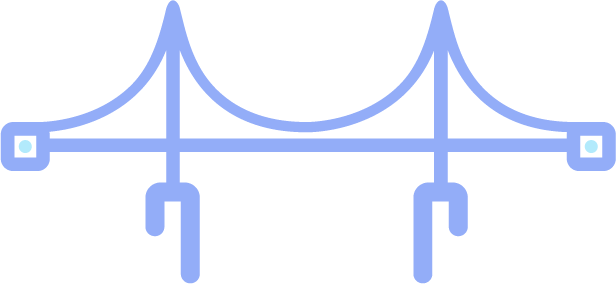
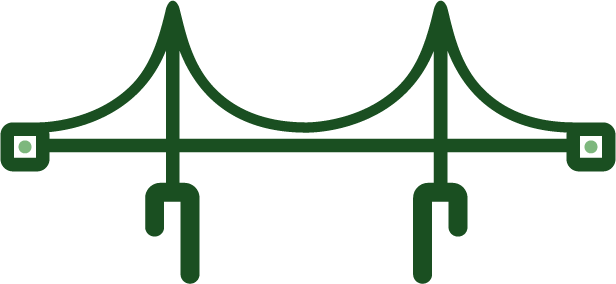
css changes

Changed region(s): [[0.0, 0.0, 1.0, 1.0]]

diff --git a/client/src/index.css b/client/src/index.css
@@ -1,32 +1,34 @@
-@import url('https://fonts.googleapis.com/css2?family=Magra:wght@400;700&display=swap');
+@import url('https://fonts.googleapis.com/css2?family=Roboto:wght@400;700&display=swap');
 
 :root {
 
   background: #F0EEFF;
 
   /* MOCKUP COLORS */
-  --purple-900: #655DFF;
-  --purple-700: #a6a6ff;
-  --purple-600: #B5B5FF;
-  --purple-400: #D1D1FF;
+  --green-900: #1B312F;
+  --green-700: #1A4F21;
+  --green-600: #2D7C2D;
+  --green-400: #7DB77D;
 
-  --blue-purple-800: #677DFF;
-  --blue-purple-600: #86ACFF;
-
+  --green-800: #3E6F4E;
+  --green-600: #79A384;
+  
+  --blue-600: #6577DC;
   --blue-900-6: rgba(76, 124, 255, 0.6);
   --blue-900-3: rgba(76, 124, 255, 0.3);
 
-  --blue-800: #276eab;
-  --blue-600: #A0D3FF;
-  --blue-400: #9AECFF;
-  --blue-200: #BCD4FF;
-  --blue-100: #d1e8fc;
+  --green-800: #3E6F4E;
+  --green-600: #79A384;
+  --green-grey-400: #BDD7D1;
+  --green-200: #E4FDEB;
+  --green-100: #C9E6FF;
 
   --pinkish-700-3: rgba(186, 100, 194, 0.3);
   --pinkish-500-5: rgba(205, 160, 208, 0.5);
 
   --redish-600: #FC7779;
   --redish-400: #ffa5a7;
+  --accent-orange: #E59924;
 
   --whiteish-300: #FDFDFD;
 
@@ -41,7 +43,7 @@
 
 /* ---------------GENERAL--------------- */
 body {
-  font-family: 'Magra', sans-serif;
+  font-family: 'Roboto', sans-serif;
   margin: 0;
 }
 
@@ -70,17 +72,17 @@ p {
 }
 
 .formbridge {
-  color: var(--purple-900);
+  color: var(--green-900);
 }
 .formbridge:hover {
-  color: var(--blue-purple-600);
+  color: var(--green-600);
   cursor: pointer;
 }
 
 .footer-text {
   text-align: center;
   margin-top: 10px;
-  font-family: 'Magra', sans-serif;
+  font-family: 'Roboto', sans-serif;
   color: var(--text-color);
 }
 
@@ -92,13 +94,13 @@ p {
     "start-nav"
     "hero";
   grid-template-rows: auto auto;
-  border-radius: 20px;
+  border-radius: 30px;
   border-top-left-radius: 50px;
   border-top-right-radius: 50px;
   width: 80vw;
   max-width: 1200px;
   height: auto;
-  background-color: var(--blue-100);
+  background-color: var(--green-100);
   box-shadow: 0px 3px 4px rgba(0, 0, 0, 0.122);
 
   z-index: 1;
@@ -109,7 +111,7 @@ p {
   display: flex;
   justify-content: space-between;
   align-items: center;
-  background-color: var(--blue-purple-800);
+  background-color: var(--green-900);
   color: var(--whiteish-300);
   padding: 20px 30px;
   height: fit-content;
@@ -162,7 +164,7 @@ p {
 .sign-in-btn:hover {
   transition: 0.3s;
   background-color: var(--whiteish-300);
-  color: var(--blue-purple-800);
+  color: var(--green-800);
 }
 
 .hero-container {
@@ -208,7 +210,7 @@ p {
 
 .hero-title {
   font-size: 48px;
-  color: var(--blue-purple-800);
+  color: var(--green-800);
   margin-bottom: 10px;
   line-height: 1.2;
 
@@ -228,7 +230,7 @@ p {
 .cta-button {
   display: inline-flex;
   align-items: center;
-  background-color: var(--redish-600);
+  background-color: var(--blue-600);
   color: white;
   border: none;
   padding: 12px 25px;
@@ -245,8 +247,8 @@ p {
 .cta-button:hover {
   transition: 0.3s;
   background-color: var(--whiteish-300);
-  color: var(--redish-600);
-  outline: 1.5px solid var(--redish-600);
+  color: var(--blue-600);
+  outline: 1.5px solid var(--blue-600);
   transform: translateX(5px);
 }
 
@@ -258,15 +260,15 @@ p {
 }
 
 .features {
-  margin-top: -20px;
+  margin-top: -25px;
   display: flex;
   justify-content: space-between;
   text-align: center;
   background-color: var(--whiteish-300);
   width: 80vw;
   max-width: 1200px;
-  border-bottom-right-radius: 20px;
-  border-bottom-left-radius: 20px;
+  border-bottom-right-radius: 40px;
+  border-bottom-left-radius: 40px;
   box-shadow: 0px 4px 6px rgba(0, 0, 0, 0.122);
 }
 
@@ -277,7 +279,7 @@ p {
   align-items: center;
   flex: 1;
   padding: 30px 20px 20px 20px;
-  border-right: 1px solid var(--blue-100);
+  border-right: 1px solid var(--green-100);
   opacity: 0.7;
   transition: 0.5s;
 }
@@ -318,7 +320,7 @@ p {
 }
 
 .feature-title {
-  color: var(--blue-purple-800);
+  color: var(--green-800);
   margin-bottom: 10px;
   font-size: 20px;
 }
@@ -353,10 +355,9 @@ p {
 
   header {
     grid-area: header;
+    background-color: var(--green-400);
     color: white;
-    background-image: url("../src/assets/Dasboard-box.png");
-    background-size: 100% 100%;
-    border-radius: 10px 10px 0 0;
+    border-radius: 30px 30px 0 0;
 
     display: grid;
     grid-template-areas: "company dashboard";
@@ -386,7 +387,7 @@ p {
 
 .menu {
   grid-area: menu;
-  background-color: var(--purple-600);
+  background-color: var(--green-800);
   display: flex;
   flex-direction: column;
   justify-content: space-between;
@@ -409,11 +410,11 @@ p {
   button:disabled {
     background-color: var(--blue-900-6);
     color: var(--whiteish-300);
-    border-left: 4px solid var(--purple-900);
+    border-left: 4px solid var(--green-900);
   }
 
   button:active {
-    background-color: var(--blue-600);
+    background-color: var(--green-600);
   }
 
   #change-dashboard {
@@ -425,7 +426,7 @@ p {
     height: 4ch;
     font-size: 14px;
     background-color: var(--gray-200-3);
-    border-left: 4px solid var(--purple-900);
+    border-left: 4px solid var(--green-900);
     padding-left: 2ch;
   }
 
@@ -438,7 +439,7 @@ p {
   }
 
   .sub-button:active {
-    background-color: var(--blue-200);
+    background-color: var(--green-200);
   }
 
   .image-text {
@@ -447,7 +448,7 @@ p {
   }
 
   .toggled {
-    background-color: var(--blue-600);
+    background-color: var(--green-600);
   }
 }
 
@@ -639,7 +640,7 @@ h3 {
 .inquiry-message {
   font-family: 'Roboto', sans-serif;
     color: var(--whiteish-300);
-    background: var(--blue-purple-800);
+    background: var(--green-800);
     padding: 10px;
     border-bottom-left-radius: 15px;
     border-bottom-right-radius: 15px;
@@ -673,14 +674,14 @@ h3 {
 
   .message.support .text {
     color: var(--whiteish-300);
-    background: var(--blue-800);
+    background: var(--green-800);
     border-bottom-left-radius: 0px;
     margin-left: 5px;
   }
 
   .message.customer .text {
     color: var(--whiteish-300);
-    background: var(--blue-purple-800);
+    background: var(--green-800);
     border-bottom-right-radius: 0px;
   }
 
@@ -718,7 +719,7 @@ h3 {
 
 .sendbutton:hover {
   transition: 0.3s;
-  background: var(--purple-900);
+  background: var(--green-900);
 }
 
 .sendButtonDisabled {
@@ -742,7 +743,7 @@ h3 {
     margin-bottom: 0;
     font-size: 17pt;
     color: var(--text-color);
-    font-family: 'Magra', sans-serif;
+    font-family: 'Roboto', sans-serif;
   }
 
   .stars {
@@ -752,7 +753,7 @@ h3 {
   
   .star {
     font-size: 32pt;
-    color: var(--blue-purple-600);
+    color: var(--green-600);
     background-color: #F0EEFF;
     border: none;
     cursor: pointer;
@@ -760,11 +761,11 @@ h3 {
   
   .star:hover,
   .star:hover ~ .star {
-    color: var(--blue-800);
+    color: var(--green-800);
   }
   
   .star.selected {
-    color: var(--blue-800);
+    color: var(--green-800);
   }
 
 }
@@ -875,12 +876,12 @@ input[type=submit] {
   color: rgb(255, 255, 255);
   width: 100px;
   border-radius: 5px;
-  background-color: var(--blue-purple-800);
+  background-color: var(--green-800);
 }
 
 #submit:hover,
 input[type=submit]:hover {
-  background-color: var(--blue-purple-600);
+  background-color: var(--green-600);
 }
 
 #submit:disabled,
@@ -891,7 +892,7 @@ input[type=submit]:disabled {
 #close:active,
 #submit:active,
 input[type=submit]:active {
-  background-color: var(--blue-600);
+  background-color: var(--green-600);
 }
 
 #message {
@@ -933,7 +934,7 @@ textarea::placeholder {
 }
 
 .iframe-link {
-  color: var(--blue-800)
+  color: var(--green-800)
 }
 
 /* ---------------TicketsTable--------------- */
@@ -943,7 +944,7 @@ textarea::placeholder {
 }
 
 .content>table tr:hover {
-  background-color: var(--purple-400);
+  background-color: var(--green-400);
 }
 
 .content tr {
@@ -1015,13 +1016,13 @@ textarea::placeholder {
 }
 
 .company-select:hover {
-  border-color: var(--purple-900);
-  color: var(--purple-900);
+  border-color: var(--green-900);
+  color: var(--green-900);
 }
 
 .company-option {
   font-size: 20px;
-  font-family: 'Magra', sans-serif;
+  font-family: 'Roboto', sans-serif;
   color: var(--text-color);
 }
 
@@ -1085,7 +1086,8 @@ td {
 
 .support-table-container>table,
 th {
-    background-color: var(--purple-400);
+    background-color: var(--green-800);
+    color: var(--whiteish-300);
 }
 
 .support-table-container>table,
@@ -1122,14 +1124,14 @@ button {
 }
 
 .add-user-top-btn {
-  background-color: var(--blue-purple-800);
+  background-color: var(--green-800);
   color: var(--whiteish-300);
   width: 100%;
   padding: 5px 0px;
 }
 
 .add-user-top-btn:hover {
-  background-color: var(--blue-purple-600);
+  background-color: var(--green-600);
 }
 
 .add-user-btn {
